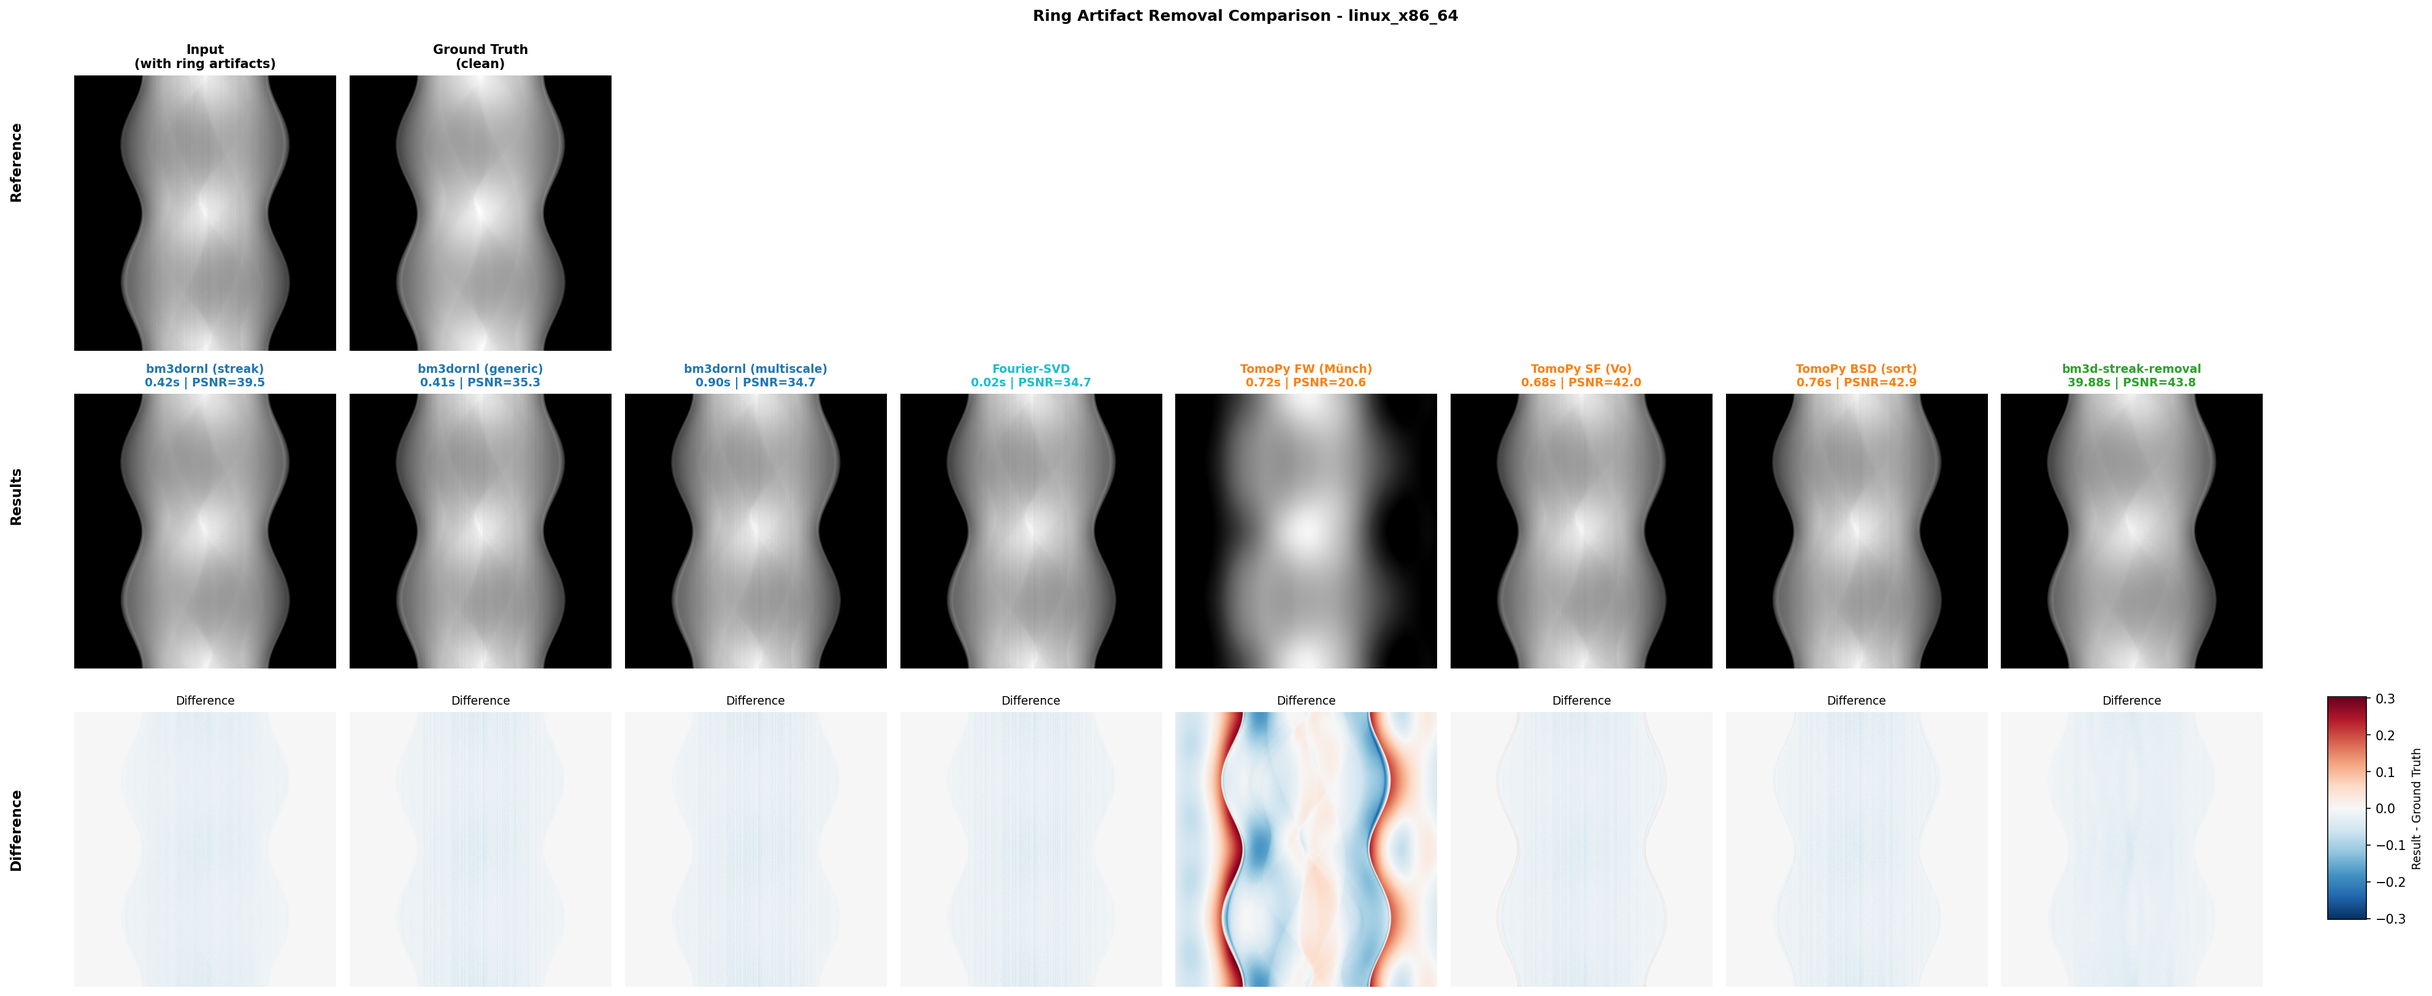
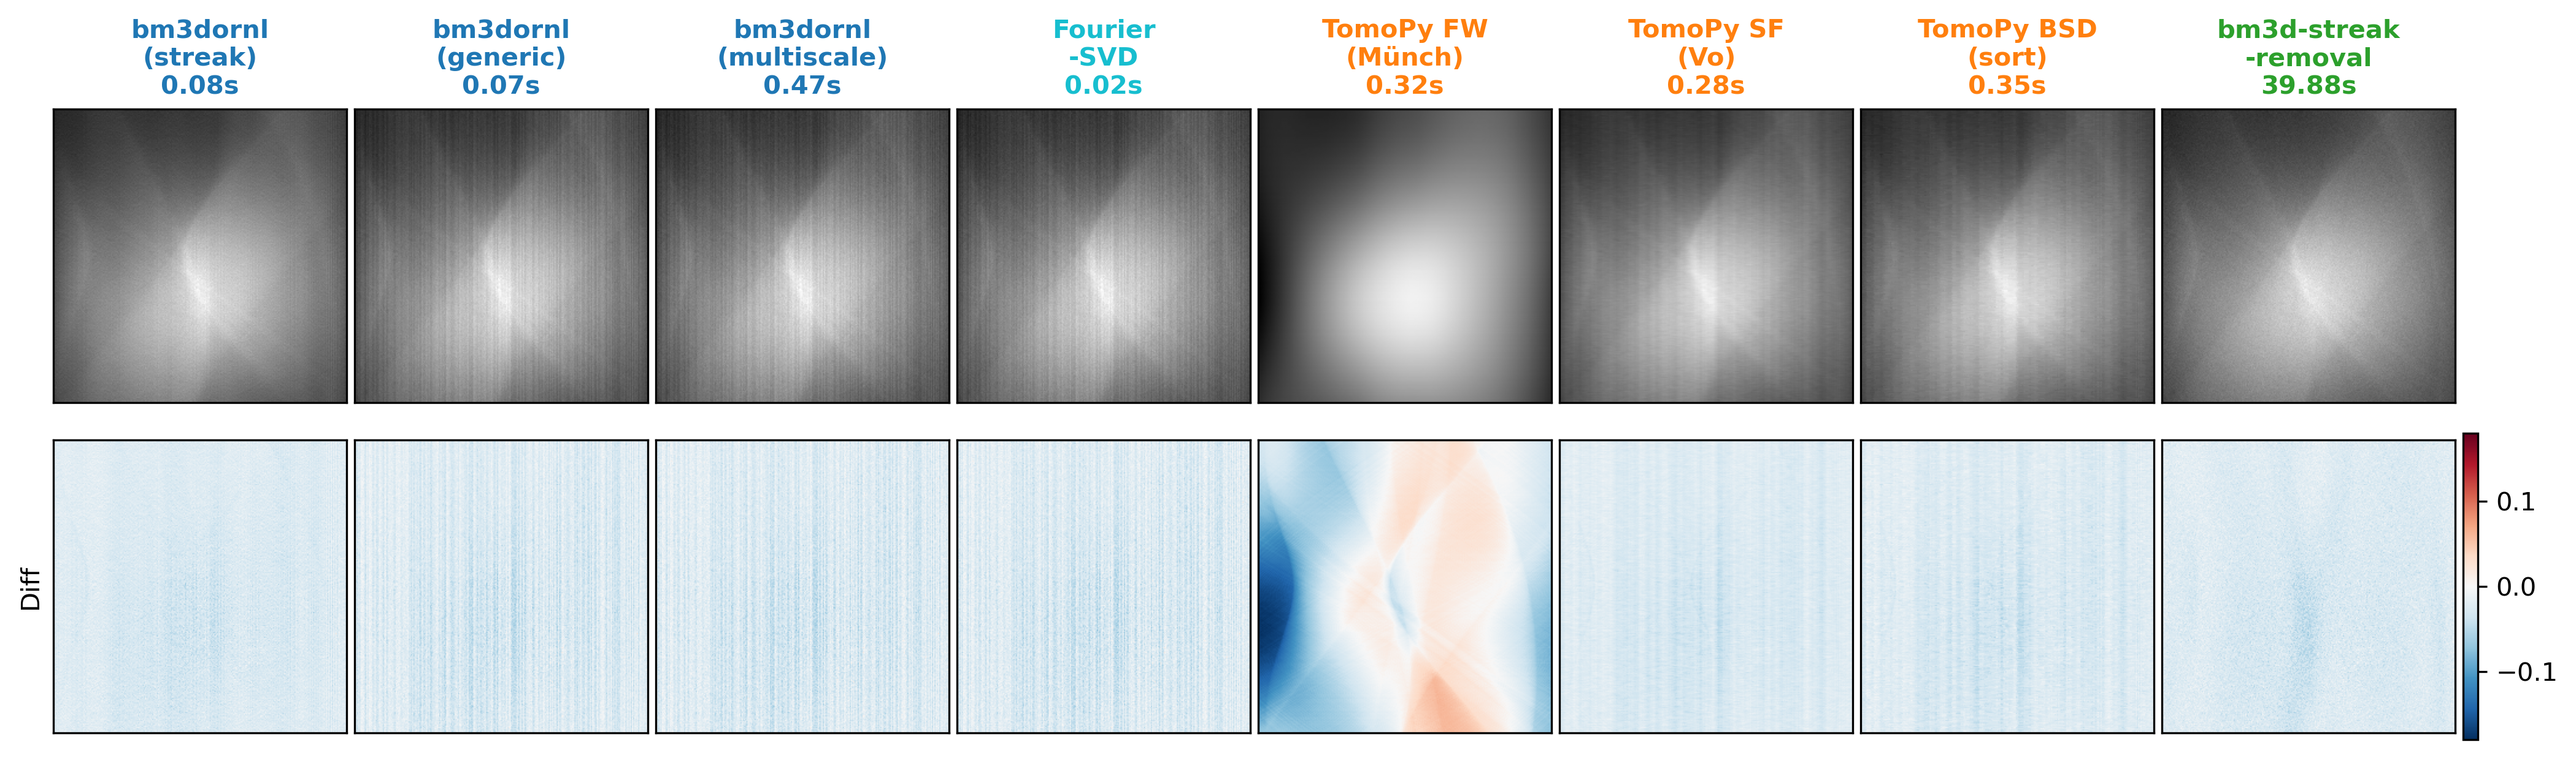
regenerate paper figures with v0.8.1 benchmark data
- Add multiscale and Fourier-SVD to figure2 (6 -> 8 methods)
- Update generate_figures.py metrics dict with new timings
- Update figure layout to 8-column grid
- Update timing chart title to n=100 runs

diff --git a/paper/generate_figures.py b/paper/generate_figures.py
@@ -37,26 +37,32 @@ CROP_X = slice(235, 485)  # columns (250 pixels, centered on artifact region)
 METHODS = [
     {"key": "bm3dornl_streak", "name": "bm3dornl\n(streak)", "color": "#1f77b4", "file": "result_bm3dornl_streak.npy"},
     {"key": "bm3dornl_generic", "name": "bm3dornl\n(generic)", "color": "#1f77b4", "file": "result_bm3dornl_generic.npy"},
+    {"key": "bm3dornl_multiscale", "name": "bm3dornl\n(multiscale)", "color": "#1f77b4", "file": "result_bm3dornl_multiscale.npy"},
+    {"key": "Fourier_SVD", "name": "Fourier\n-SVD", "color": "#17becf", "file": "result_Fourier-SVD.npy"},
     {"key": "TomoPy_FW", "name": "TomoPy FW\n(Münch)", "color": "#ff7f0e", "file": "result_TomoPy_FW_Münch.npy"},
     {"key": "TomoPy_SF", "name": "TomoPy SF\n(Vo)", "color": "#ff7f0e", "file": "result_TomoPy_SF_Vo.npy"},
     {"key": "TomoPy_BSD", "name": "TomoPy BSD\n(sort)", "color": "#ff7f0e", "file": "result_TomoPy_BSD_sort.npy"},
     {"key": "bm3d_streak", "name": "bm3d-streak\n-removal", "color": "#2ca02c", "file": "result_bm3d-streak-removal.npy"},
 ]
 
-# Timing and metrics data (from consolidated_results.csv)
+# Timing and metrics data (from consolidated_results.csv, v0.8.1 benchmark)
 METRICS = {
-    "bm3dornl_streak": {"time": 0.256, "std": 0.009, "psnr": 32.63, "ssim": 0.6160},
-    "bm3dornl_generic": {"time": 0.219, "std": 0.002, "psnr": 32.93, "ssim": 0.5760},
-    "TomoPy_FW": {"time": 0.318, "std": 0.008, "psnr": 20.61, "ssim": 0.5831},
-    "TomoPy_SF": {"time": 0.278, "std": 0.008, "psnr": 34.50, "ssim": 0.9591},
-    "TomoPy_BSD": {"time": 0.349, "std": 0.009, "psnr": 34.69, "ssim": 0.9333},
-    "bm3d_streak": {"time": 41.033, "std": 0.139, "psnr": 36.34, "ssim": 0.8697},
+    "bm3dornl_streak": {"time": 0.078, "std": 0.006, "psnr": 39.40, "ssim": 0.9431},
+    "bm3dornl_generic": {"time": 0.074, "std": 0.007, "psnr": 35.10, "ssim": 0.9476},
+    "bm3dornl_multiscale": {"time": 0.475, "std": 0.018, "psnr": 34.72, "ssim": 0.9510},
+    "Fourier_SVD": {"time": 0.017, "std": 0.001, "psnr": 34.72, "ssim": 0.9510},
+    "TomoPy_FW": {"time": 0.317, "std": 0.011, "psnr": 20.63, "ssim": 0.5840},
+    "TomoPy_SF": {"time": 0.276, "std": 0.008, "psnr": 42.01, "ssim": 0.9868},
+    "TomoPy_BSD": {"time": 0.346, "std": 0.011, "psnr": 42.86, "ssim": 0.9829},
+    "bm3d_streak": {"time": 39.878, "std": 0.106, "psnr": 43.79, "ssim": 0.9670},
 }
 
 # Marker styles for scatter plot
 MARKERS = {
     "bm3dornl_streak": "s",  # square
     "bm3dornl_generic": "D",  # diamond
+    "bm3dornl_multiscale": "P",  # plus (filled)
+    "Fourier_SVD": "*",  # star
     "TomoPy_FW": "^",  # triangle up
     "TomoPy_SF": "v",  # triangle down
     "TomoPy_BSD": ">",  # triangle right
@@ -164,14 +170,14 @@ def figure2_results_diff(data):
     diff_vmin, diff_vmax = -diff_absmax, diff_absmax
 
     # Create figure with GridSpec
-    # 6 image columns + 1 narrow colorbar column
+    # 8 image columns + 1 narrow colorbar column
     # Crop is 250x250 pixels, so aspect is 1:1
-    # Figure width: 6 images + colorbar, height: 2 rows
-    fig = plt.figure(figsize=(13, 4.5), dpi=DPI)
+    # Figure width: 8 images + colorbar, height: 2 rows
+    fig = plt.figure(figsize=(17, 4.5), dpi=DPI)
     gs = GridSpec(
-        2, 7,  # 2 rows, 7 columns (6 images + 1 colorbar)
+        2, 9,  # 2 rows, 9 columns (8 images + 1 colorbar)
         figure=fig,
-        width_ratios=[1, 1, 1, 1, 1, 1, 0.05],  # colorbar is narrow
+        width_ratios=[1, 1, 1, 1, 1, 1, 1, 1, 0.05],  # colorbar is narrow
         height_ratios=[1, 1],
         wspace=0.03,
         hspace=0.08
@@ -204,7 +210,7 @@ def figure2_results_diff(data):
             ax.set_ylabel("Diff", fontsize=ANNOTATION_SIZE)
 
     # Colorbar spanning row 2 only
-    cbar_ax = fig.add_subplot(gs[1, 6])
+    cbar_ax = fig.add_subplot(gs[1, 8])
     cbar = fig.colorbar(diff_im, cax=cbar_ax)
     cbar.ax.tick_params(labelsize=TICK_SIZE)
 
@@ -237,7 +243,7 @@ def figure3_metrics():
     ax.set_xticks(range(len(METHODS)))
     ax.set_xticklabels(names, fontsize=TICK_SIZE, rotation=45, ha="right")
     ax.set_ylabel("Processing Time (s)", fontsize=LABEL_SIZE)
-    ax.set_title("(a) Processing Time (n=30 runs)", fontsize=TITLE_SIZE)
+    ax.set_title("(a) Processing Time (n=100 runs)", fontsize=TITLE_SIZE)
     ax.tick_params(labelsize=TICK_SIZE)
 
     # Add value labels on bars
